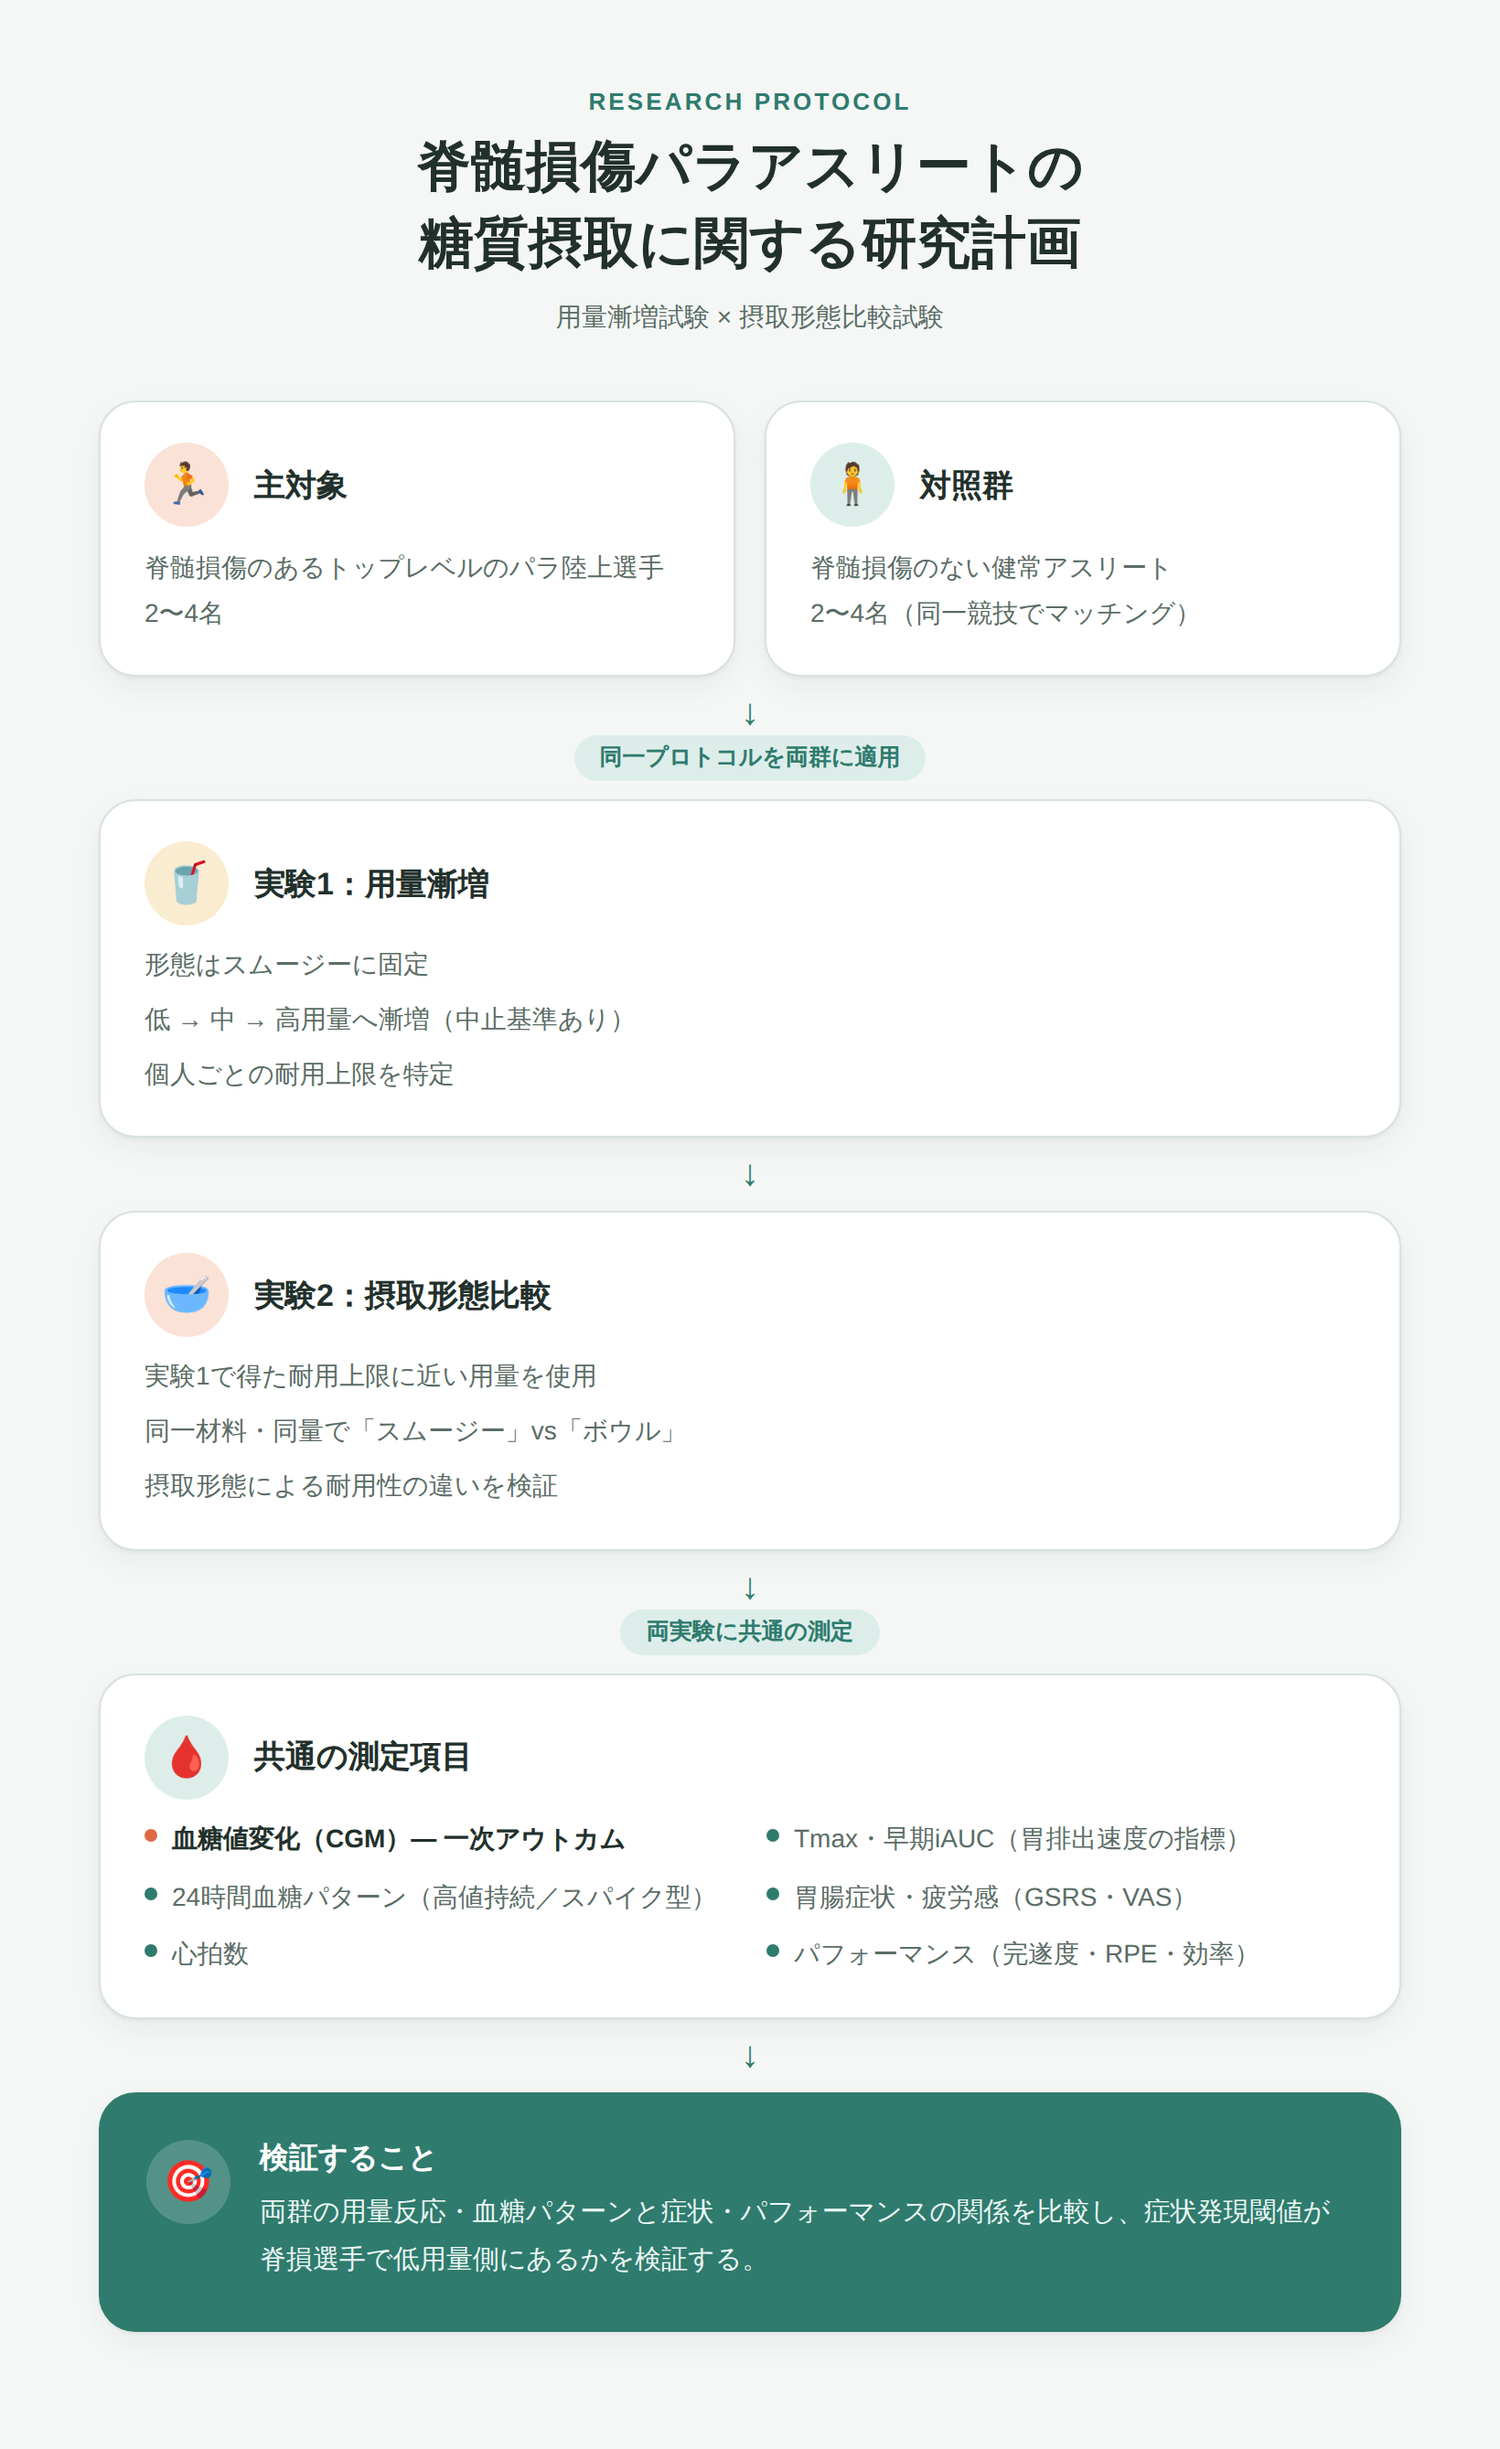
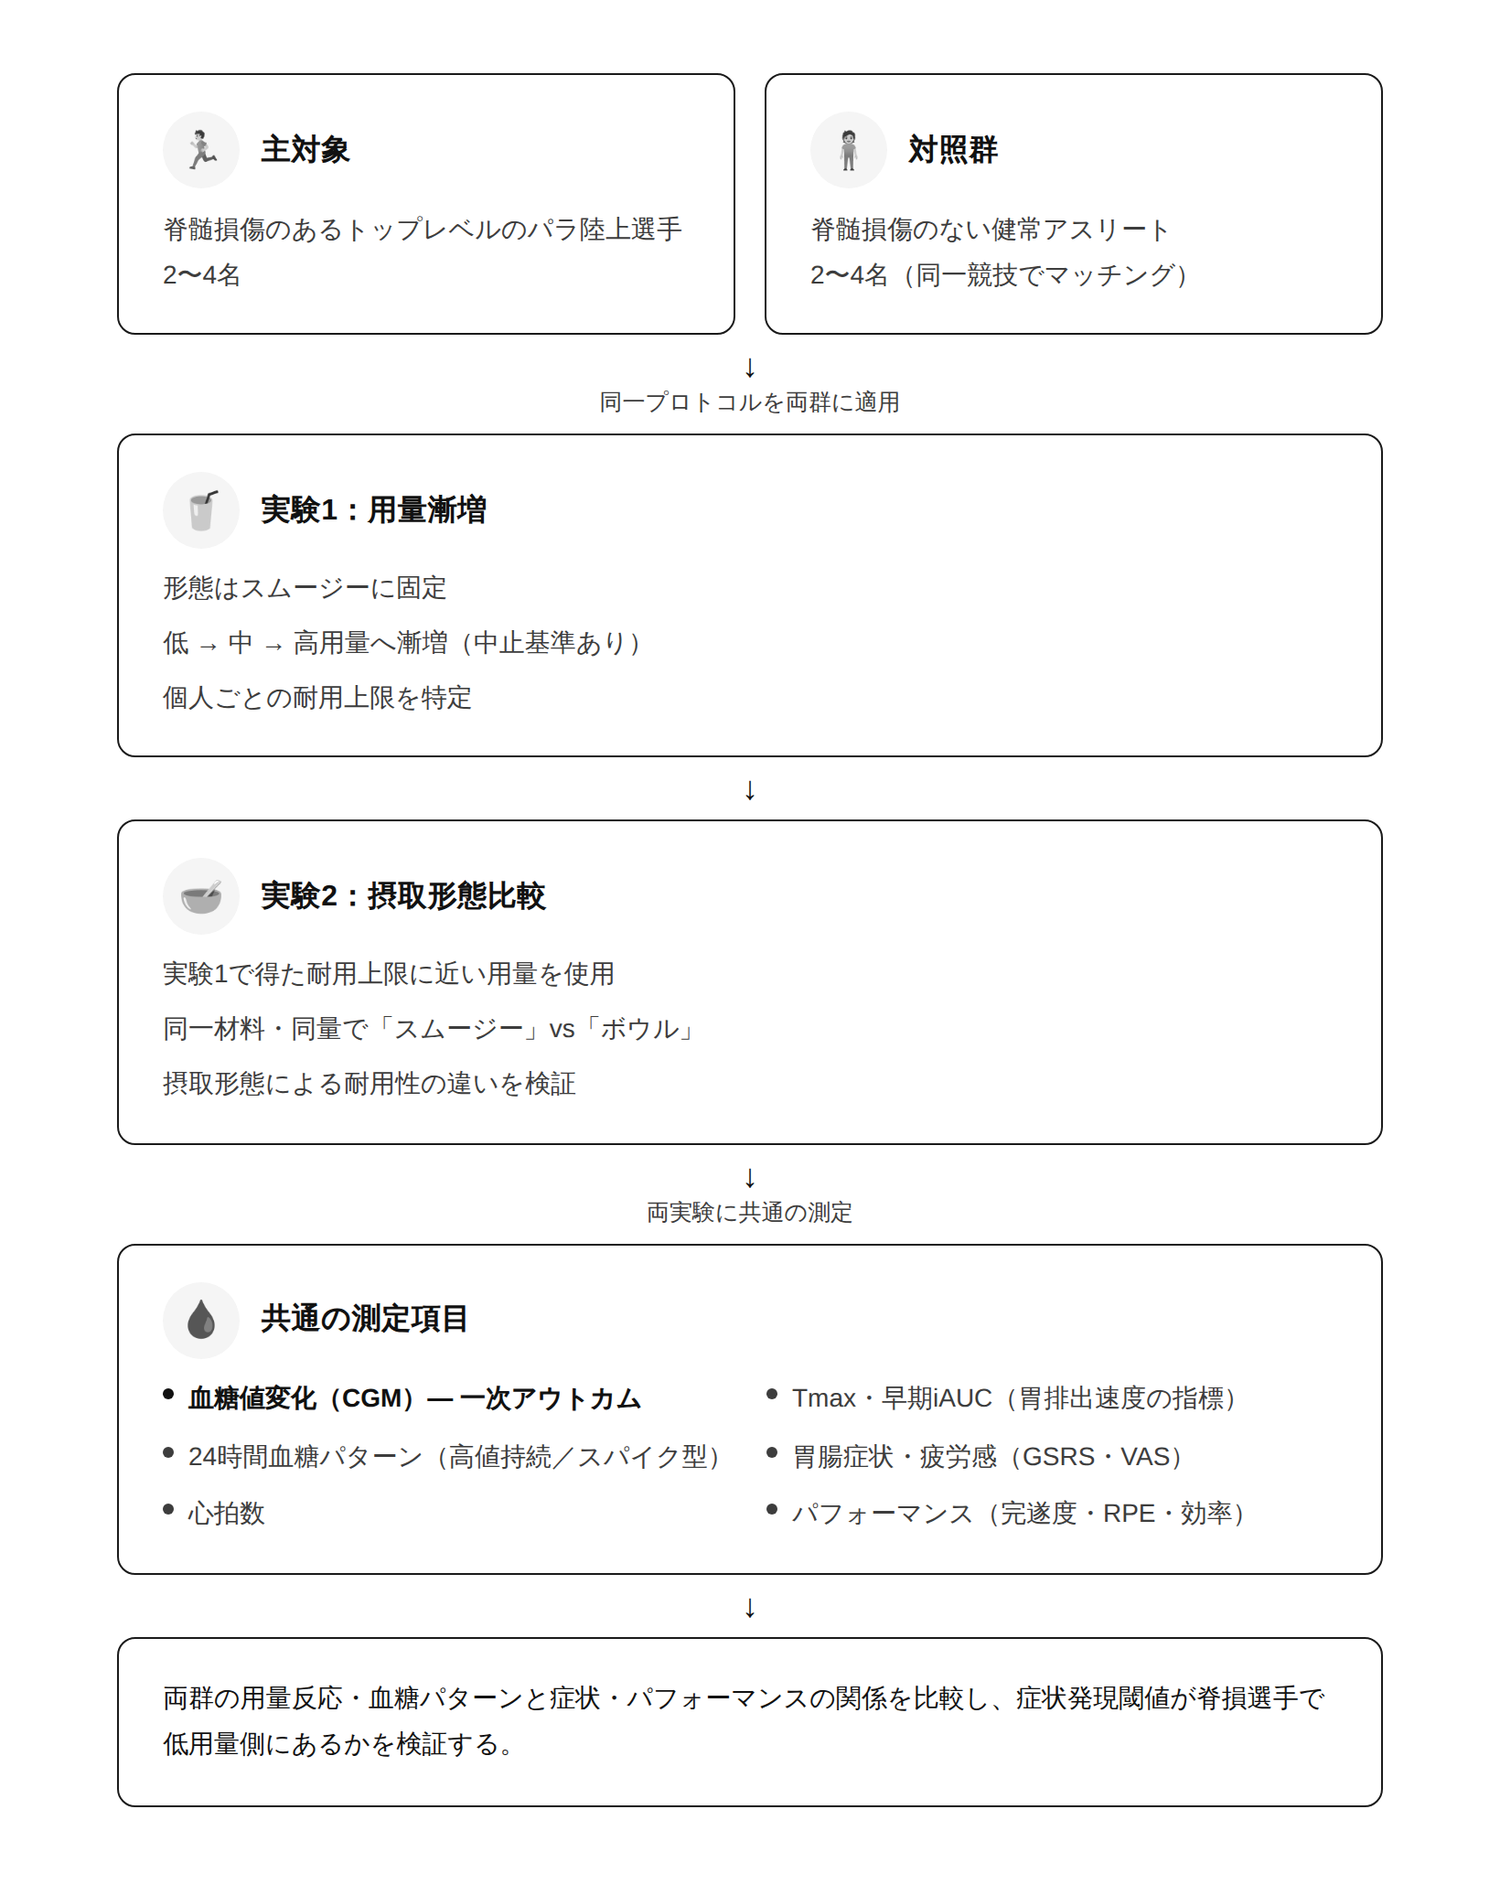
Restyle flowchart to monochrome for print use
Drop color, switch to standard gothic type, and remove the title
and closing "検証すること" framing per feedback, so the diagram fits
directly into a formal research plan document.

diff --git a/flowcharts/research-flow.html b/flowcharts/research-flow.html
@@ -1,46 +1,32 @@
 <title>脊髄損傷パラアスリート 糖質摂取プロトコル</title>
 <style>
   :root{
-    --paper:#F4F7F5;
+    --paper:#FFFFFF;
     --panel:#FFFFFF;
-    --ink:#22302B;
-    --ink-soft:#5B6D66;
-    --line:#D8E2DE;
-    --teal:#2F7B6E;
-    --teal-soft:#DDEEEA;
-    --coral:#DD6A44;
-    --coral-soft:#FBE2D6;
-    --gold:#C98A22;
-    --gold-soft:#FAECD0;
-    --shadow: 0 1px 2px rgba(34,48,43,.06), 0 6px 16px rgba(34,48,43,.05);
+    --ink:#111111;
+    --ink-soft:#3D3D3D;
+    --line:#1A1A1A;
+    --fill:#EFEFEF;
+    --fill-strong:#111111;
   }
   @media (prefers-color-scheme: dark){
     :root{
-      --paper:#141C19;
-      --panel:#1C2623;
-      --ink:#EAF2EE;
-      --ink-soft:#9FB3AC;
-      --line:#2D3936;
-      --teal:#63C1AA;
-      --teal-soft:#20342F;
-      --coral:#EF9670;
-      --coral-soft:#382820;
-      --gold:#E4BA5E;
-      --gold-soft:#382E1B;
-      --shadow: 0 1px 2px rgba(0,0,0,.3), 0 8px 20px rgba(0,0,0,.25);
+      --paper:#121212;
+      --panel:#121212;
+      --ink:#F2F2F2;
+      --ink-soft:#C7C7C7;
+      --line:#E4E4E4;
+      --fill:#262626;
+      --fill-strong:#F2F2F2;
     }
   }
   :root[data-theme="dark"]{
-    --paper:#141C19; --panel:#1C2623; --ink:#EAF2EE; --ink-soft:#9FB3AC;
-    --line:#2D3936; --teal:#63C1AA; --teal-soft:#20342F;
-    --coral:#EF9670; --coral-soft:#382820; --gold:#E4BA5E; --gold-soft:#382E1B;
-    --shadow: 0 1px 2px rgba(0,0,0,.3), 0 8px 20px rgba(0,0,0,.25);
+    --paper:#121212; --panel:#121212; --ink:#F2F2F2; --ink-soft:#C7C7C7;
+    --line:#E4E4E4; --fill:#262626; --fill-strong:#F2F2F2;
   }
   :root[data-theme="light"]{
-    --paper:#F4F7F5; --panel:#FFFFFF; --ink:#22302B; --ink-soft:#5B6D66;
-    --line:#D8E2DE; --teal:#2F7B6E; --teal-soft:#DDEEEA;
-    --coral:#DD6A44; --coral-soft:#FBE2D6; --gold:#C98A22; --gold-soft:#FAECD0;
-    --shadow: 0 1px 2px rgba(34,48,43,.06), 0 6px 16px rgba(34,48,43,.05);
+    --paper:#FFFFFF; --panel:#FFFFFF; --ink:#111111; --ink-soft:#3D3D3D;
+    --line:#1A1A1A; --fill:#EFEFEF; --fill-strong:#111111;
   }
 
   *{ box-sizing:border-box; }
@@ -48,71 +34,45 @@
     margin:0;
     background:var(--paper);
     color:var(--ink);
-    font-family:"Hiragino Kaku Gothic ProN","Yu Gothic","Noto Sans JP","M PLUS Rounded 1c",sans-serif;
+    font-family:"Yu Gothic","Hiragino Kaku Gothic ProN","Noto Sans JP",sans-serif;
     font-variant-numeric: tabular-nums;
   }
   .page{
-    max-width:760px;
+    max-width:740px;
     margin:0 auto;
-    padding:48px 24px 64px;
+    padding:40px 24px 48px;
     display:flex;
     flex-direction:column;
     align-items:stretch;
   }
-  header{
-    text-align:center;
-    margin-bottom:36px;
-  }
-  .kicker{
-    font-size:13px;
-    letter-spacing:.12em;
-    color:var(--teal);
-    font-weight:700;
-    margin-bottom:8px;
-  }
-  h1{
-    font-family:"Hiragino Maru Gothic ProN","M PLUS Rounded 1c","Yu Gothic",sans-serif;
-    font-size:clamp(22px,4vw,30px);
-    line-height:1.4;
-    margin:0;
-    text-wrap:balance;
-    font-weight:700;
-  }
-  .sub{
-    margin-top:10px;
-    font-size:14px;
-    color:var(--ink-soft);
-  }
 
   .card{
     background:var(--panel);
-    border:1px solid var(--line);
-    border-radius:20px;
-    box-shadow:var(--shadow);
-    padding:22px 24px;
+    border:1.5px solid var(--line);
+    border-radius:10px;
+    padding:20px 24px;
   }
   .badge{
-    width:46px; height:46px;
+    width:42px; height:42px;
     border-radius:50%;
     display:flex; align-items:center; justify-content:center;
-    font-size:22px;
+    font-size:20px;
     flex:none;
+    background:var(--fill);
+    filter: grayscale(1) contrast(1.05);
   }
-  .badge.teal{ background:var(--teal-soft); }
-  .badge.coral{ background:var(--coral-soft); }
-  .badge.gold{ background:var(--gold-soft); }
 
   .card-head{
     display:flex;
     align-items:center;
-    gap:14px;
+    gap:12px;
     margin-bottom:10px;
   }
   .card-head h2{
-    font-family:"Hiragino Maru Gothic ProN","M PLUS Rounded 1c","Yu Gothic",sans-serif;
-    font-size:17px;
+    font-size:16px;
     margin:0;
     font-weight:700;
+    letter-spacing:.02em;
   }
   .card p{
     margin:0;
@@ -145,21 +105,17 @@
     display:flex;
     flex-direction:column;
     align-items:center;
-    gap:2px;
-    padding:10px 0;
+    gap:3px;
+    padding:8px 0;
   }
   .connector .arrow{
-    color:var(--teal);
-    font-size:20px;
+    color:var(--ink);
+    font-size:18px;
     line-height:1;
   }
   .connector .tag{
     font-size:12.5px;
-    color:var(--teal);
-    background:var(--teal-soft);
-    border-radius:999px;
-    padding:4px 14px;
-    font-weight:700;
+    color:var(--ink-soft);
     white-space:nowrap;
   }
 
@@ -177,51 +133,34 @@
   .measure-card li .dot{
     flex:none;
     margin-top:6px;
-    width:7px; height:7px;
+    width:6px; height:6px;
     border-radius:50%;
-    background:var(--teal);
+    background:var(--ink-soft);
   }
   .measure-card li.primary{ color:var(--ink); font-weight:700; }
-  .measure-card li.primary .dot{ background:var(--coral); }
+  .measure-card li.primary .dot{ background:var(--ink); }
 
-  .conclusion{
-    background:var(--teal);
-    color:#F4FBF9;
-    border:none;
-    border-radius:20px;
-    padding:26px 26px;
-    box-shadow:var(--shadow);
-    display:flex;
-    gap:16px;
-    align-items:flex-start;
-  }
-  .conclusion .badge{ background:rgba(255,255,255,.18); }
-  .conclusion p{ color:#EAF7F3; font-size:14.5px; line-height:1.8; margin:0; }
-  .conclusion h2{
-    font-family:"Hiragino Maru Gothic ProN","M PLUS Rounded 1c","Yu Gothic",sans-serif;
-    font-size:16px; margin:0 0 6px; color:#fff; font-weight:700;
+  .closing p{
+    margin:0;
+    font-size:14px;
+    line-height:1.8;
+    color:var(--ink);
   }
 </style>
 
 <div class="page">
 
-  <header>
-    <div class="kicker">RESEARCH PROTOCOL</div>
-    <h1>脊髄損傷パラアスリートの<br>糖質摂取に関する研究計画</h1>
-    <div class="sub">用量漸増試験 × 摂取形態比較試験</div>
-  </header>
-
   <div class="pair">
     <div class="card">
       <div class="card-head">
-        <div class="badge coral">🏃</div>
+        <div class="badge">🏃</div>
         <h2>主対象</h2>
       </div>
       <p>脊髄損傷のあるトップレベルのパラ陸上選手<br>2〜4名</p>
     </div>
     <div class="card">
       <div class="card-head">
-        <div class="badge teal">🧍</div>
+        <div class="badge">🧍</div>
         <h2>対照群</h2>
       </div>
       <p>脊髄損傷のない健常アスリート<br>2〜4名（同一競技でマッチング）</p>
@@ -236,7 +175,7 @@
   <div class="stack">
     <div class="card">
       <div class="card-head">
-        <div class="badge gold">🥤</div>
+        <div class="badge">🥤</div>
         <h2>実験1：用量漸増</h2>
       </div>
       <ul>
@@ -250,7 +189,7 @@
 
     <div class="card">
       <div class="card-head">
-        <div class="badge coral">🥣</div>
+        <div class="badge">🥣</div>
         <h2>実験2：摂取形態比較</h2>
       </div>
       <ul>
@@ -268,7 +207,7 @@
 
   <div class="card measure-card">
     <div class="card-head">
-      <div class="badge teal">🩸</div>
+      <div class="badge">🩸</div>
       <h2>共通の測定項目</h2>
     </div>
     <ul>
@@ -283,12 +222,8 @@
 
   <div class="connector"><span class="arrow">↓</span></div>
 
-  <div class="conclusion">
-    <div class="badge">🎯</div>
-    <div>
-      <h2>検証すること</h2>
-      <p>両群の用量反応・血糖パターンと症状・パフォーマンスの関係を比較し、症状発現閾値が脊損選手で低用量側にあるかを検証する。</p>
-    </div>
+  <div class="card closing">
+    <p>両群の用量反応・血糖パターンと症状・パフォーマンスの関係を比較し、症状発現閾値が脊損選手で低用量側にあるかを検証する。</p>
   </div>
 
 </div>
